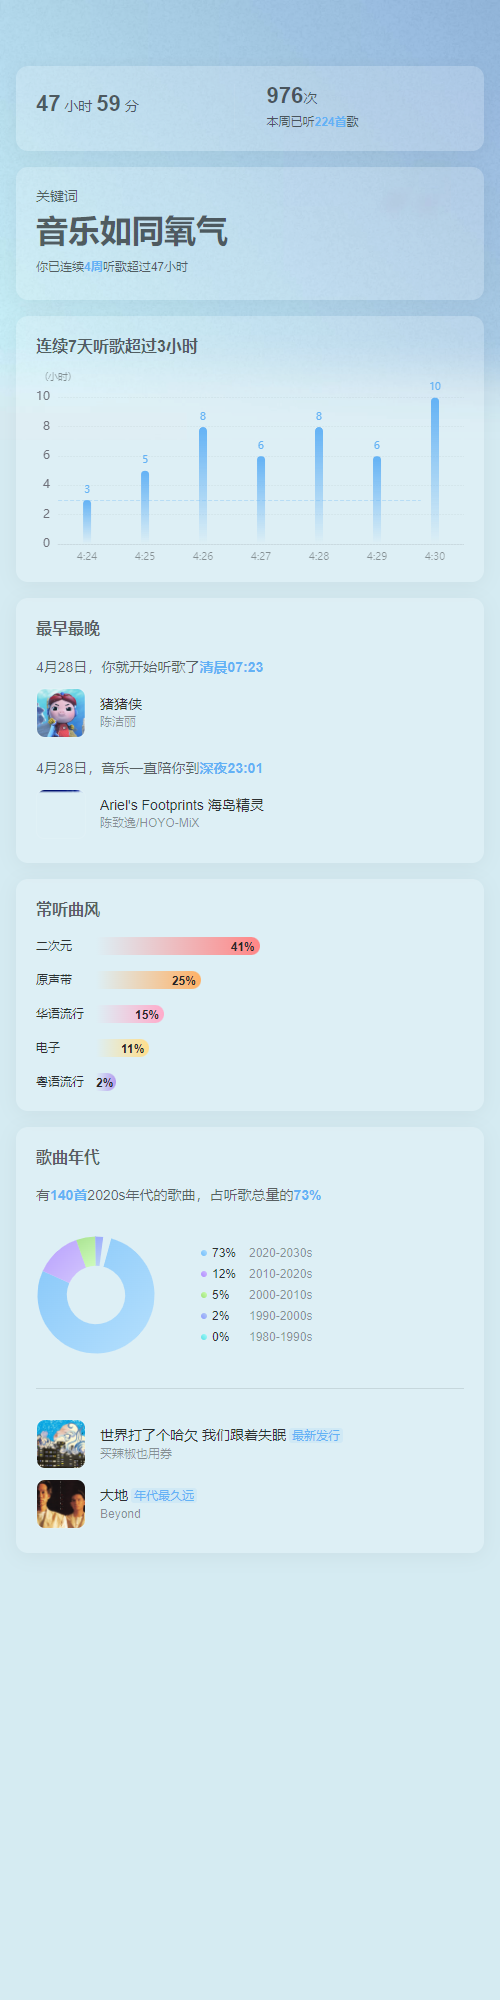
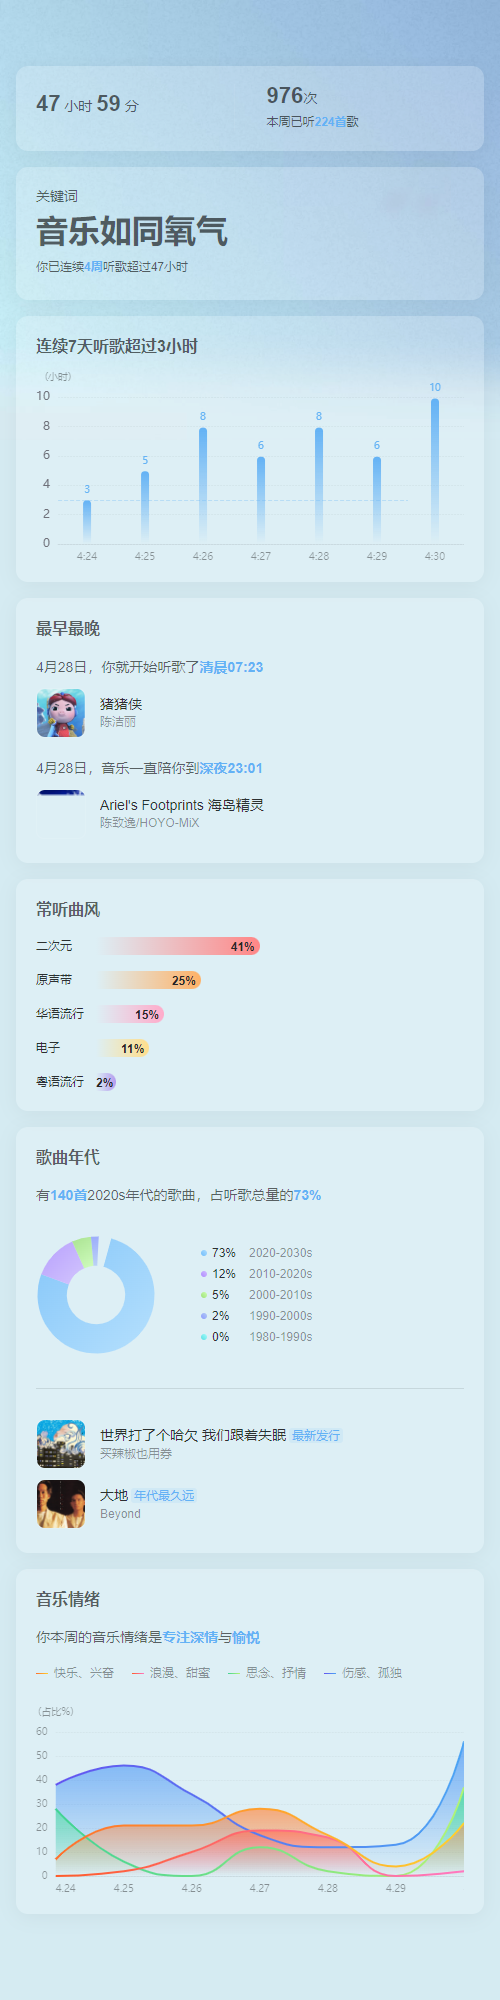
+loadEmotion

diff --git a/machine.js b/machine.js
@@ -212,6 +212,161 @@ function getAnalysis() {
                 ]
             })
         }
+        function loadEmotion(document, analysis) {
+            var wstime = analysis.weekStartTime
+            var tdata = []
+            for (let index = 0; index < 7; index++) {
+                var date = new Date(wstime + 86400000 * index)
+                if (index == 0 || index == 6) {
+                    tdata.push({
+                        value: date.getMonth() + 1 + "." + date.getDate(),
+                        textStyle: {
+                            align: "left"
+                        }
+                    })
+                }
+                else {
+                    tdata.push(date.getMonth() + 1 + "." + date.getDate())
+                }
+            }
+            var buffer = []
+            var sdata = []
+            const colorList = [
+                ["#6353F0", "#4CA5F4", "#4493F6", "rgba(68, 147, 246, 0)"],
+                ["#41D395", "#B3F474", "#40E58D", "rgba(64, 229, 141, 0)"],
+                ["#FF5C29", "#FF78C2", "#FF5D64", "rgba(255, 120, 194, 0)"],
+                ["#FF6F2D", "#FFD02D", "#FF8B45", "rgba(255, 139, 69, 0)"]
+            ]
+            var index = 0
+            analysis.data.musicEmotion.emotions.forEach(element => {
+                buffer = []
+                element.detail.forEach(celement => {
+                    buffer.push(Math.trunc(parseFloat(celement.percent) * 100))
+                })
+                sdata.push({
+                    type: "line",
+                    smooth: true,
+                    symbol: "none",
+                    lineStyle: {
+                        color: {
+                            type: "linear",
+                            x: 0,
+                            y: 0,
+                            x2: 1,
+                            y2: 0,
+                            colorStops: [
+                                {
+                                    offset: 0,
+                                    color: colorList[index][0]
+                                },
+                                {
+                                    offset: 1,
+                                    color: colorList[index][1]
+                                }
+                            ]
+                        },
+                        width: 2
+                    },
+                    areaStyle: {
+                        color: {
+                            type: "linear",
+                            x: 0,
+                            y: 0,
+                            x2: 0,
+                            y2: 1,
+                            colorStops: [
+                                {
+                                    offset: 0,
+                                    color: colorList[index][2]
+                                },
+                                {
+                                    offset: 1,
+                                    color: colorList[index][3]
+                                }
+                            ]
+                        }
+                    },
+                    "data": buffer
+                })
+                index++;
+            })
+            console.log(sdata)
+            var container = addContainer(document)
+            addElement(document, "p", container, "f-fs16 f-fw1 b-cont-tit f-cor-b", "音乐情绪")
+            var detail = addElement(document, "p", container, "f-cor-b f-fs14")
+            detail.append("你本周的音乐情绪是")
+            addElement(document, "span", detail, "f-cor-d f-fw1", analysis.data.musicEmotion.subTitle[0])
+            detail.append("与")
+            addElement(document, "span", detail, "f-cor-d f-fw1", analysis.data.musicEmotion.subTitle[1])
+            var legend = addElement(document, "div", container, "mood-legend")
+            const label = ["快乐、兴奋", "浪漫、甜蜜",
+                "思念、抒情", "伤感、孤独"]
+            for (let index = 3; index >= 0; index--) {
+                var item = addElement(document, "div", legend, "m-item f-cor-g")
+                var line = addElement(document, "span", item, "m-i-line")
+                line.setAttribute("style", "background-image:linear-gradient(90deg, " +
+                    colorList[index][0] + " 0%, " + colorList[index][1] + " 100%)")
+                addElement(document, "span", item, "", label[3 - index])
+
+            }
+            var chart = echarts.init(addElement(document, "div", container, "mood-chart"))
+            chart.setOption({
+                animation:false,
+                grid: {
+                    top: 30,
+                    bottom: 0,
+                    left: 0,
+                    right: 0,
+                    width: 'auto',
+                    containLabel: true
+                },
+                series: sdata,
+                xAxis: {
+                    show: true,
+                    boundaryGap: false,
+                    axisLabel: {
+                        color: "rgba(0,0,0,0.4)",
+                        fontSize: 10,
+                        interval: 0
+                    },
+                    axisLine: {
+                        show: true,
+                        lineStyle: {
+                            type: "solid",
+                            color: "rgba(0,0,0, 0.05)"
+                        }
+                    },
+                    axisTick: {
+                        show: false
+                    },
+                    data: tdata
+                },
+                yAxis: {
+                    name: "(占比%)",
+                    type: "value",
+                    show: true,
+                    nameTextStyle: {
+                        fontSize: 10,
+                        color: "rgba(0,0,0,0.4)"
+                    },
+                    axisLabel: {
+                        show: true,
+                        color: "rgba(0,0,0,0.4)",
+                        fontSize: 10
+                    },
+                    splitNumber: 5,
+                    splitLine: {
+                        lineStyle: {
+                            color: [
+                                "rgba(0,0,0,0.08)"
+                            ],
+                            type: "dashed",
+                            width: 0.5
+                        }
+                    }
+                }
+            })
+        }
         function loadCommonStyle(document, analysis) {
             var container = addContainer(document)
             addElement(document, "p", container, "f-fs16 f-fw1 b-cont-tit f-cor-b", "常听曲风")
@@ -362,6 +517,7 @@ function getAnalysis() {
             loadStartEnd(document, analysis)
             loadCommonStyle(document, analysis)
             loadYear(document, analysis)
+            loadEmotion(document, analysis)
         }
         main()
     }, analysis)
